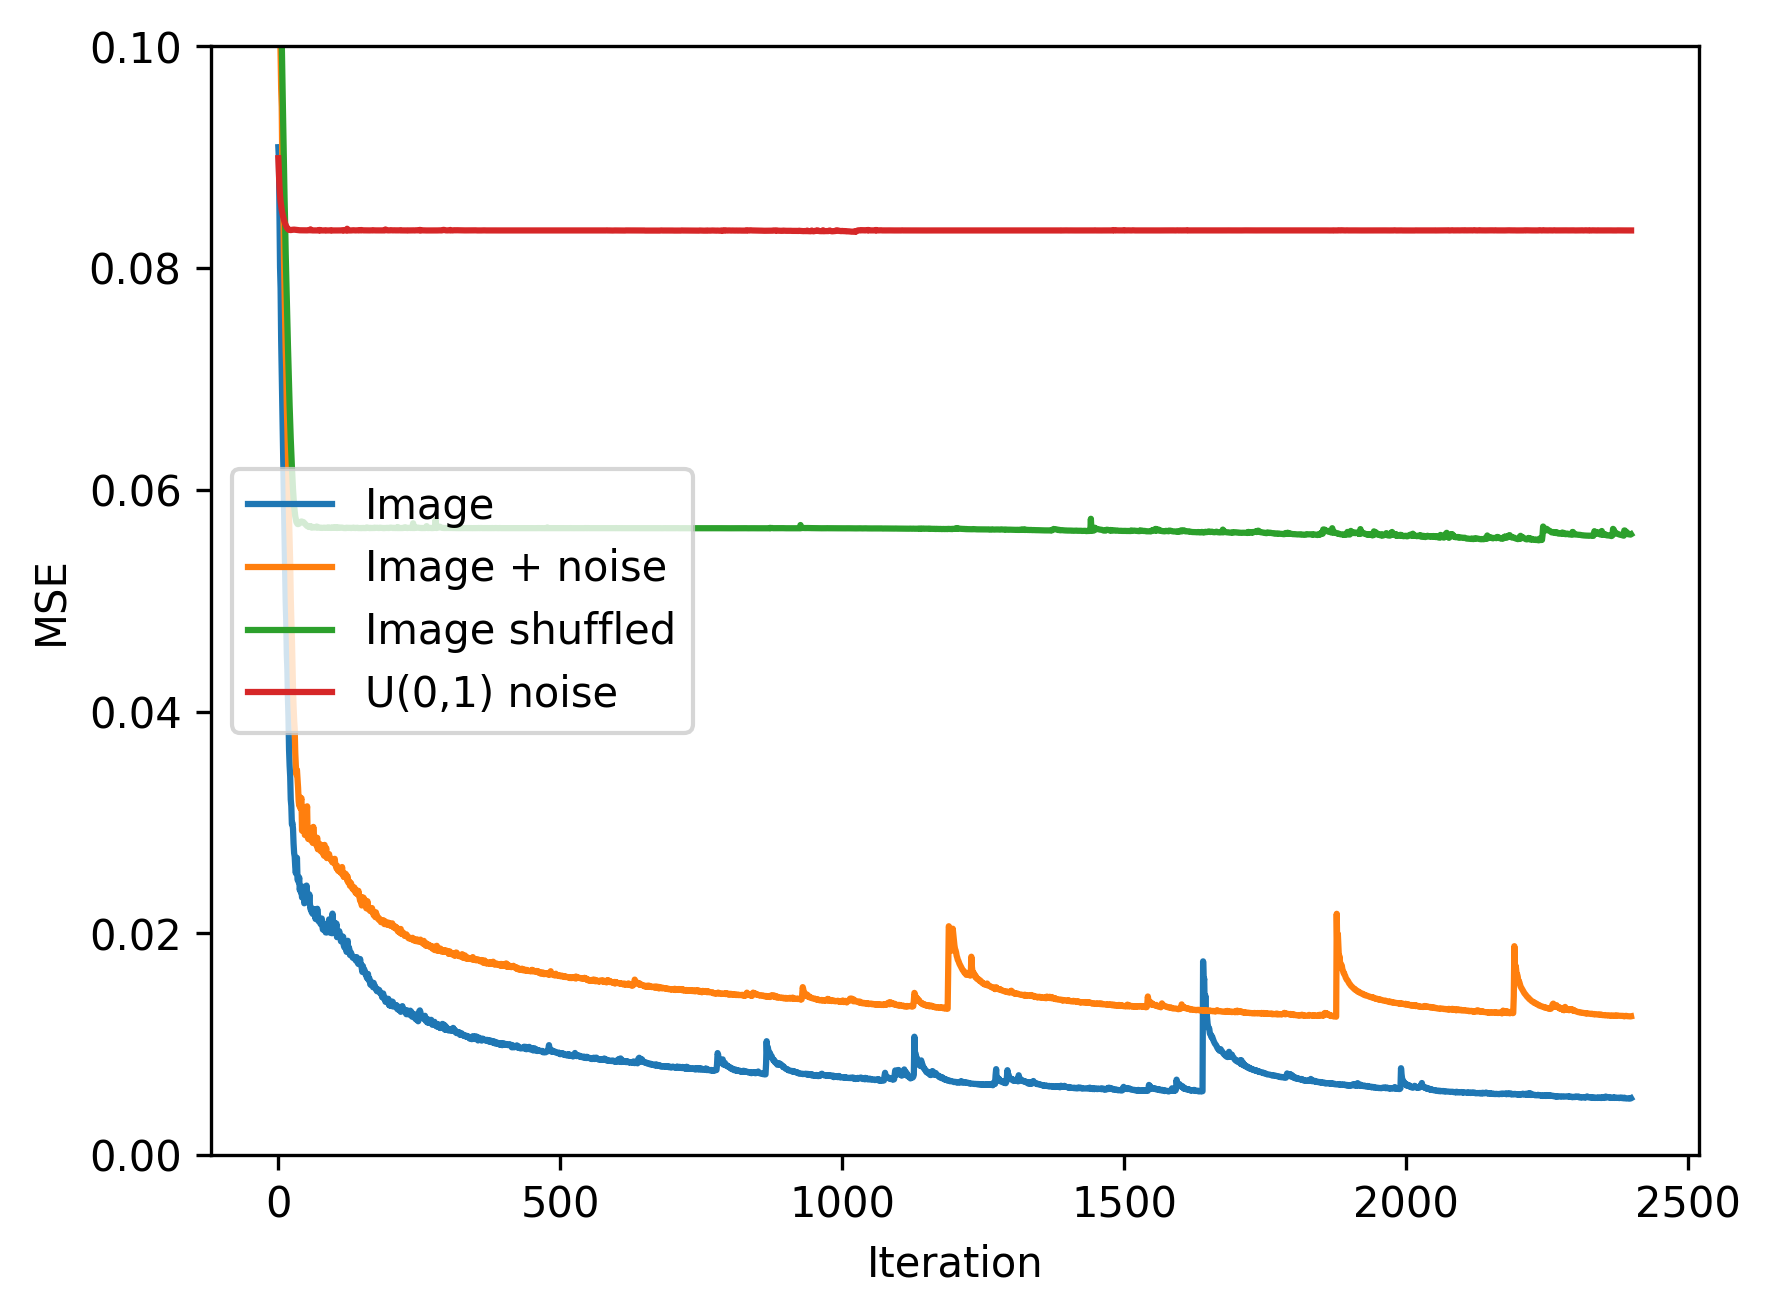
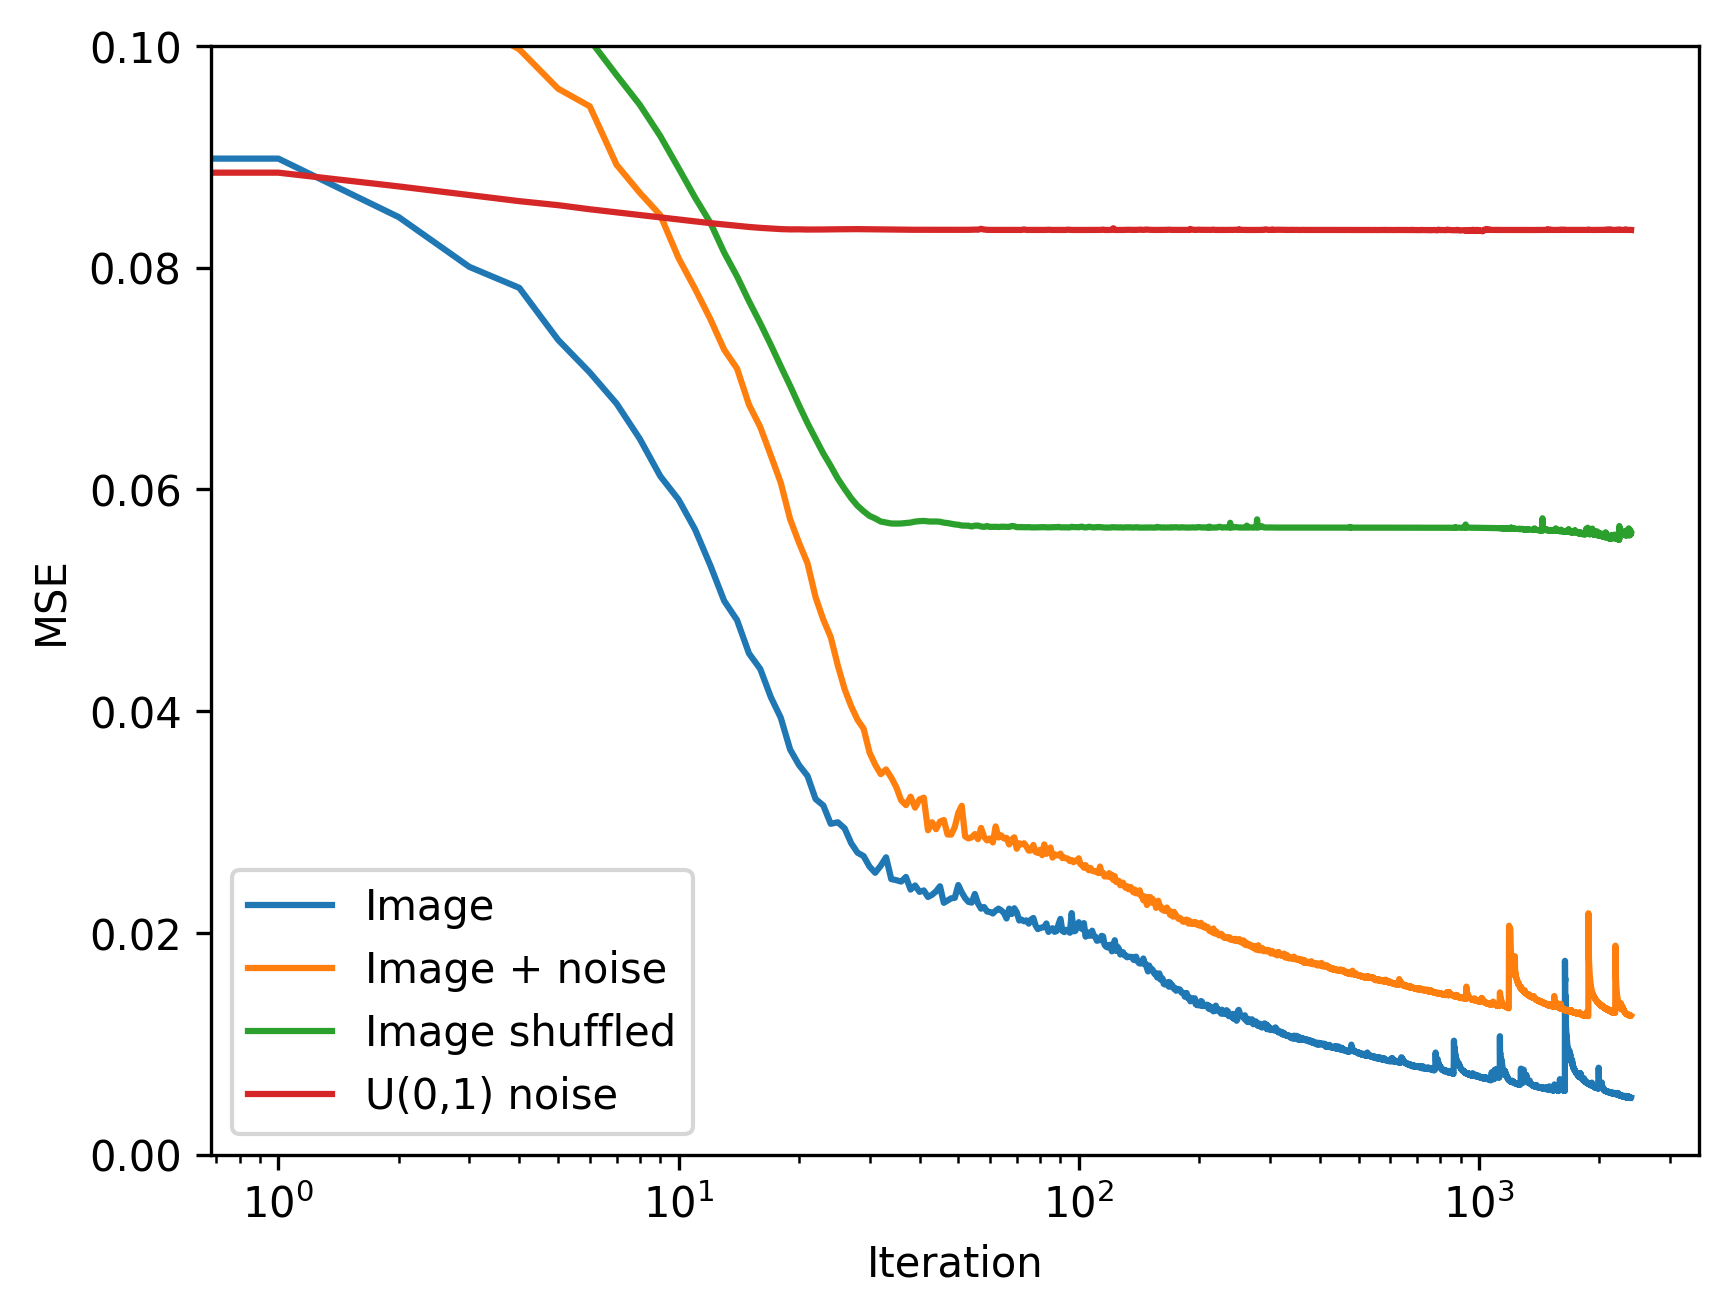
Results update

diff --git a/VisualizeLeanringCurve.py b/VisualizeLeanringCurve.py
@@ -35,5 +35,6 @@ plt.legend()
 plt.ylim([0., 0.1])
 plt.xlabel("Iteration")
 plt.ylabel('MSE')
-plt.savefig("LearningCurveLoss.png", dpi=300, bbox_inches='tight')
+plt.xscale('log')
+plt.savefig("Results/LearningCurves/LearningCurveLoss.png", dpi=300, bbox_inches='tight')
 plt.close()
